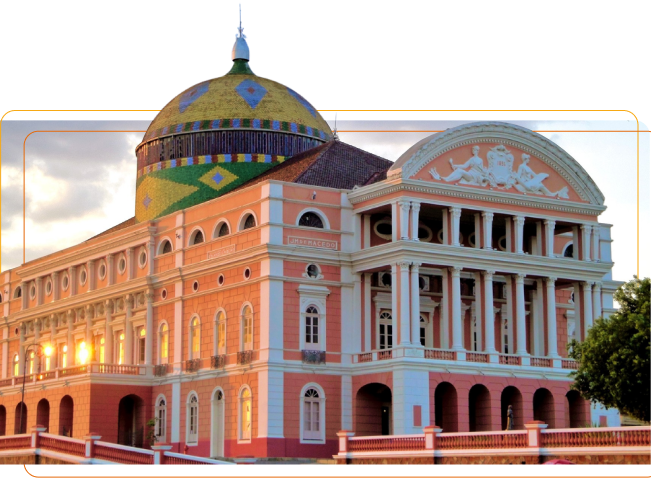
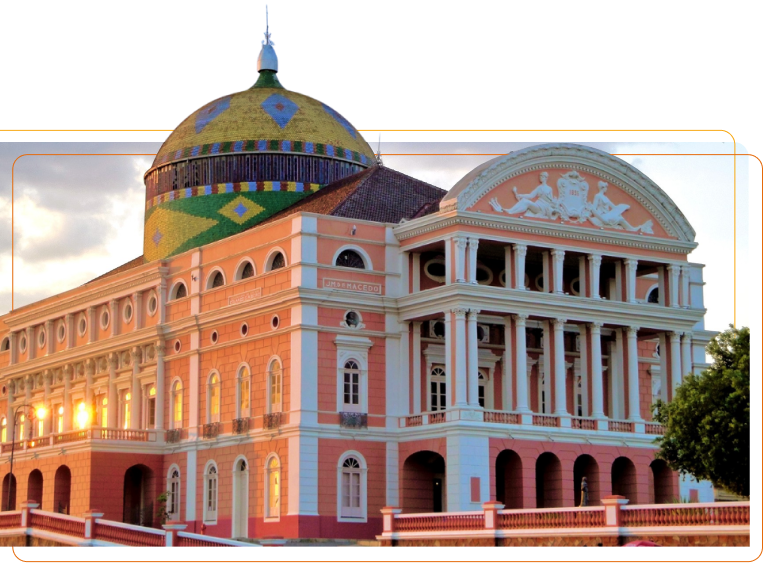
update home page

diff --git a/CSS/home.css b/CSS/home.css
@@ -12,8 +12,8 @@ section.top::before {
   z-index: 0;
 }
 
-.top {
-  background-image: url(../images/VT\ PRINCIPAL.jpg);
+main .top {
+  background-image: url(../images/imagem-cidade-manaus.png);
   background-size: cover;
   background-position-x: -27.5rem;
 
@@ -126,11 +126,8 @@ section.top::before {
   margin-bottom: 0.8rem;
 }
 
-.cards div:nth-child(2) p {
-  margin-top: 1.0rem;
-}
-
 .welcome {
+  max-width: 177.5rem;
   margin-bottom: 13.0rem;
 }
 
@@ -212,7 +209,7 @@ section.top::before {
   width: 100%;
 }
 
-@media(min-width: 1000px){
+@media(min-width: 1280px){
 
   header {
     background: transparent;
@@ -241,7 +238,7 @@ section.top::before {
   }
 
   .cards {
-    top: -18.0rem;
+    top: -20.3rem;
 
     flex-direction: row;
     justify-content: center;
@@ -254,6 +251,15 @@ section.top::before {
 
   .cards .card {
     width: 31.6rem;
+  }
+
+  .cards div:nth-child(1),
+  .cards div:nth-child(3) {
+    height: 36.6rem;
+  }
+
+  .cards div:nth-child(2) {
+    height: 41.4rem;
   }
 
   .cards .card img {
@@ -270,37 +276,39 @@ section.top::before {
     line-height: 2.5rem;
   }
 
+  .welcome {
+    margin: 0 auto 18.4rem;
+    height: 153.3rem;
+  }
+
   .welcome .theater-photo {
-    position: absolute;
-    left: -10.6rem;
-    top: 177.5rem;
+    position: relative;
+    top: 102.8rem;
 
-    z-index: 10;
-
+    display: inline-block;
     width: 67.9rem;
-
-    display: none;
   }
 
   .welcome .office-photo {
-    position: absolute;
-    right: 0;
-    top: 148.35rem;
-
-    z-index: 10;
-    
+    position: relative;
+    top: 33.0rem;
     display: block;
     width: 57.1rem;
+
+    float: right;
   }
 
   .welcome .welcome-text {
-    position: absolute;
-    left: 16.5rem;
-    top: 127.6rem;
+    position: relative;
+    top: -50.0rem;
+    left: 15.3rem;
 
-    z-index: 10;
-
+    display: inline-block;
     width: 52.4rem;
+  }
+
+  .welcome img {
+    margin-bottom: 0;
   }
 
   .welcome .welcome-text h3 {
@@ -343,10 +351,6 @@ section.top::before {
   }
 
   .grid-box {
-    position: absolute;
-    left: 0px;
-    top: 2492px;
-
     width: 100%;
   }
 
@@ -390,17 +394,6 @@ section.top::before {
   }
 
   .newsletter {
-    position: absolute;
-    top: 336.8rem;
-    
     width: 100%;
-  }
-
-  .information-box {
-    top: 391.7rem;
-  }
-
-  footer {
-    top: 415.6rem;
   }
 }

diff --git a/CSS/style.css b/CSS/style.css
@@ -413,7 +413,7 @@ blockquote strong {
 }
 /* ########## end styles of article pages ##########*/
 
-@media(min-width: 1000px) {
+@media(min-width: 1280px) {
 
   .hide {
     display: block;
@@ -603,8 +603,6 @@ blockquote strong {
     margin: 0 auto 23rem;
 
     max-width: 97.7rem;
-
-    position: absolute;
   }
 
   .internal-information-box {
@@ -625,7 +623,6 @@ blockquote strong {
   }
 
   footer {
-    position: absolute;
     
     height: 9.9rem;
     width: 100%;
